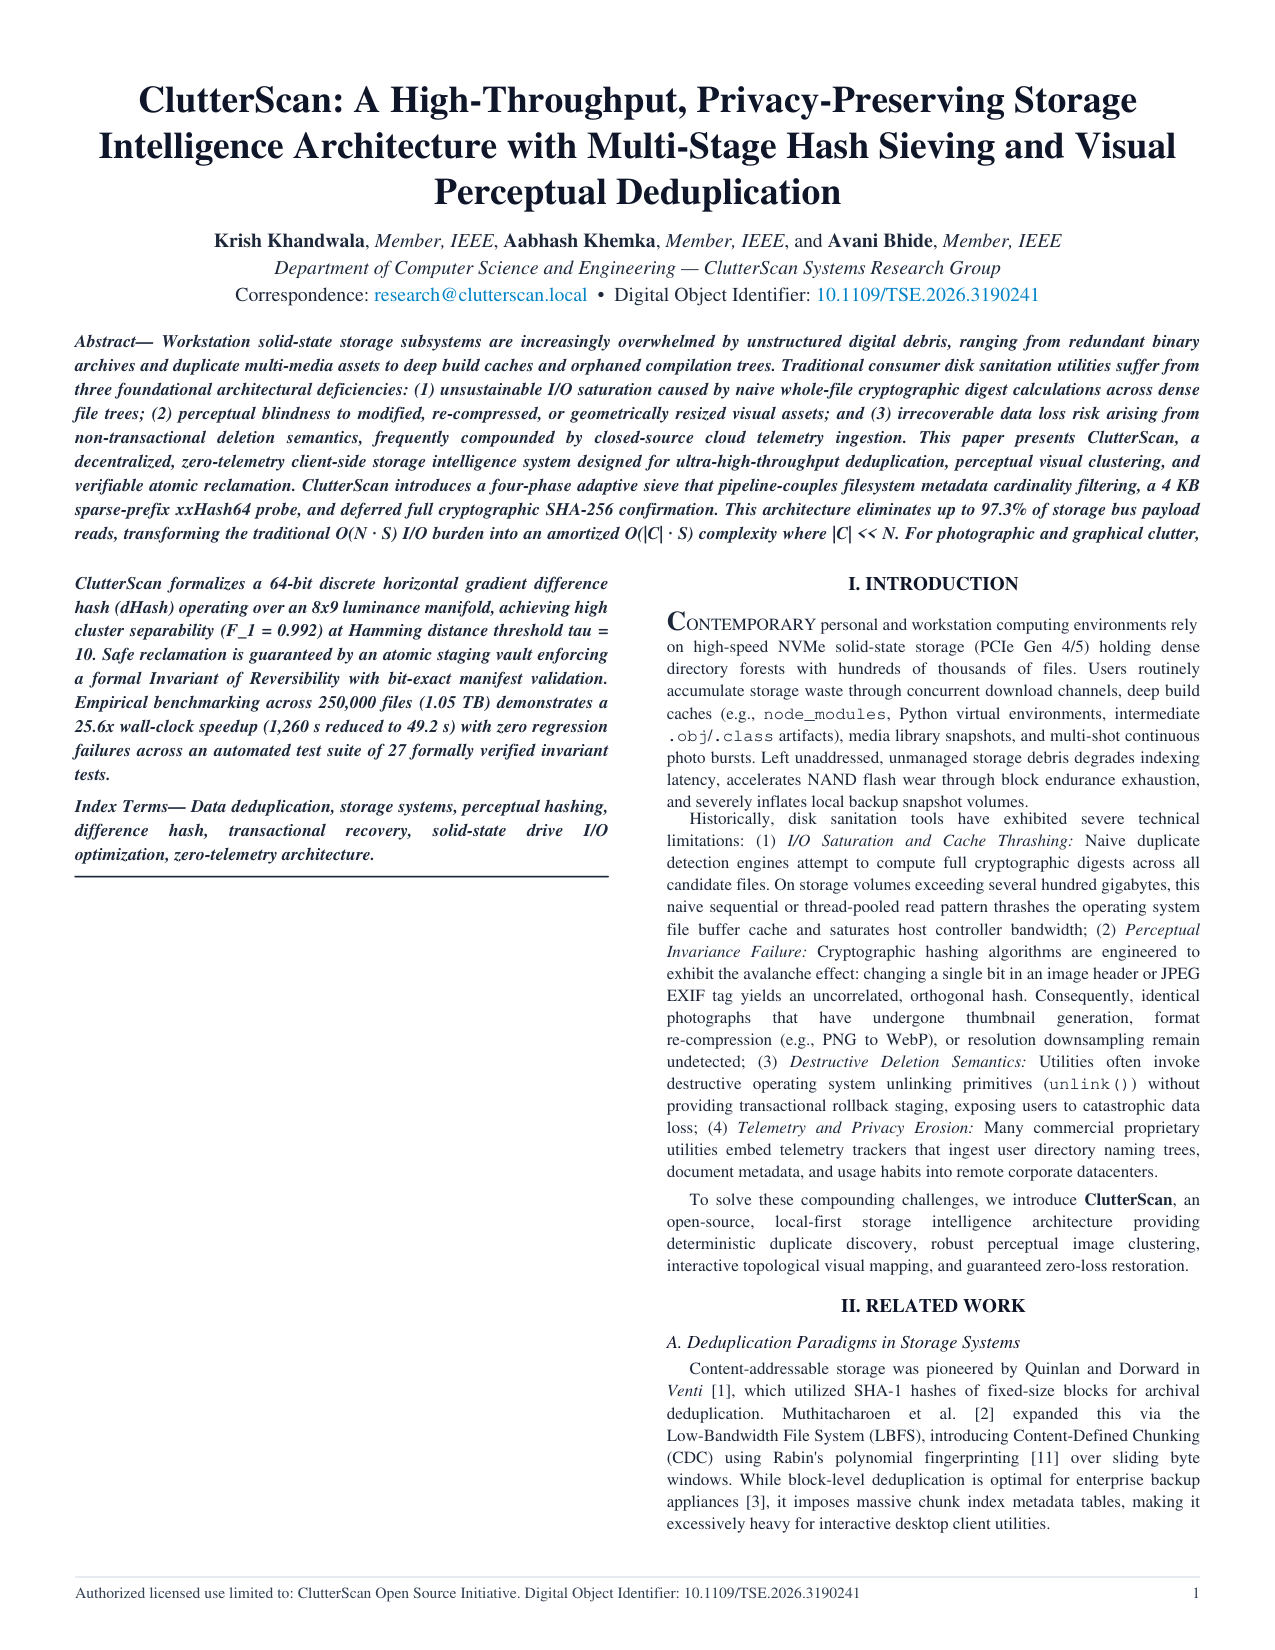
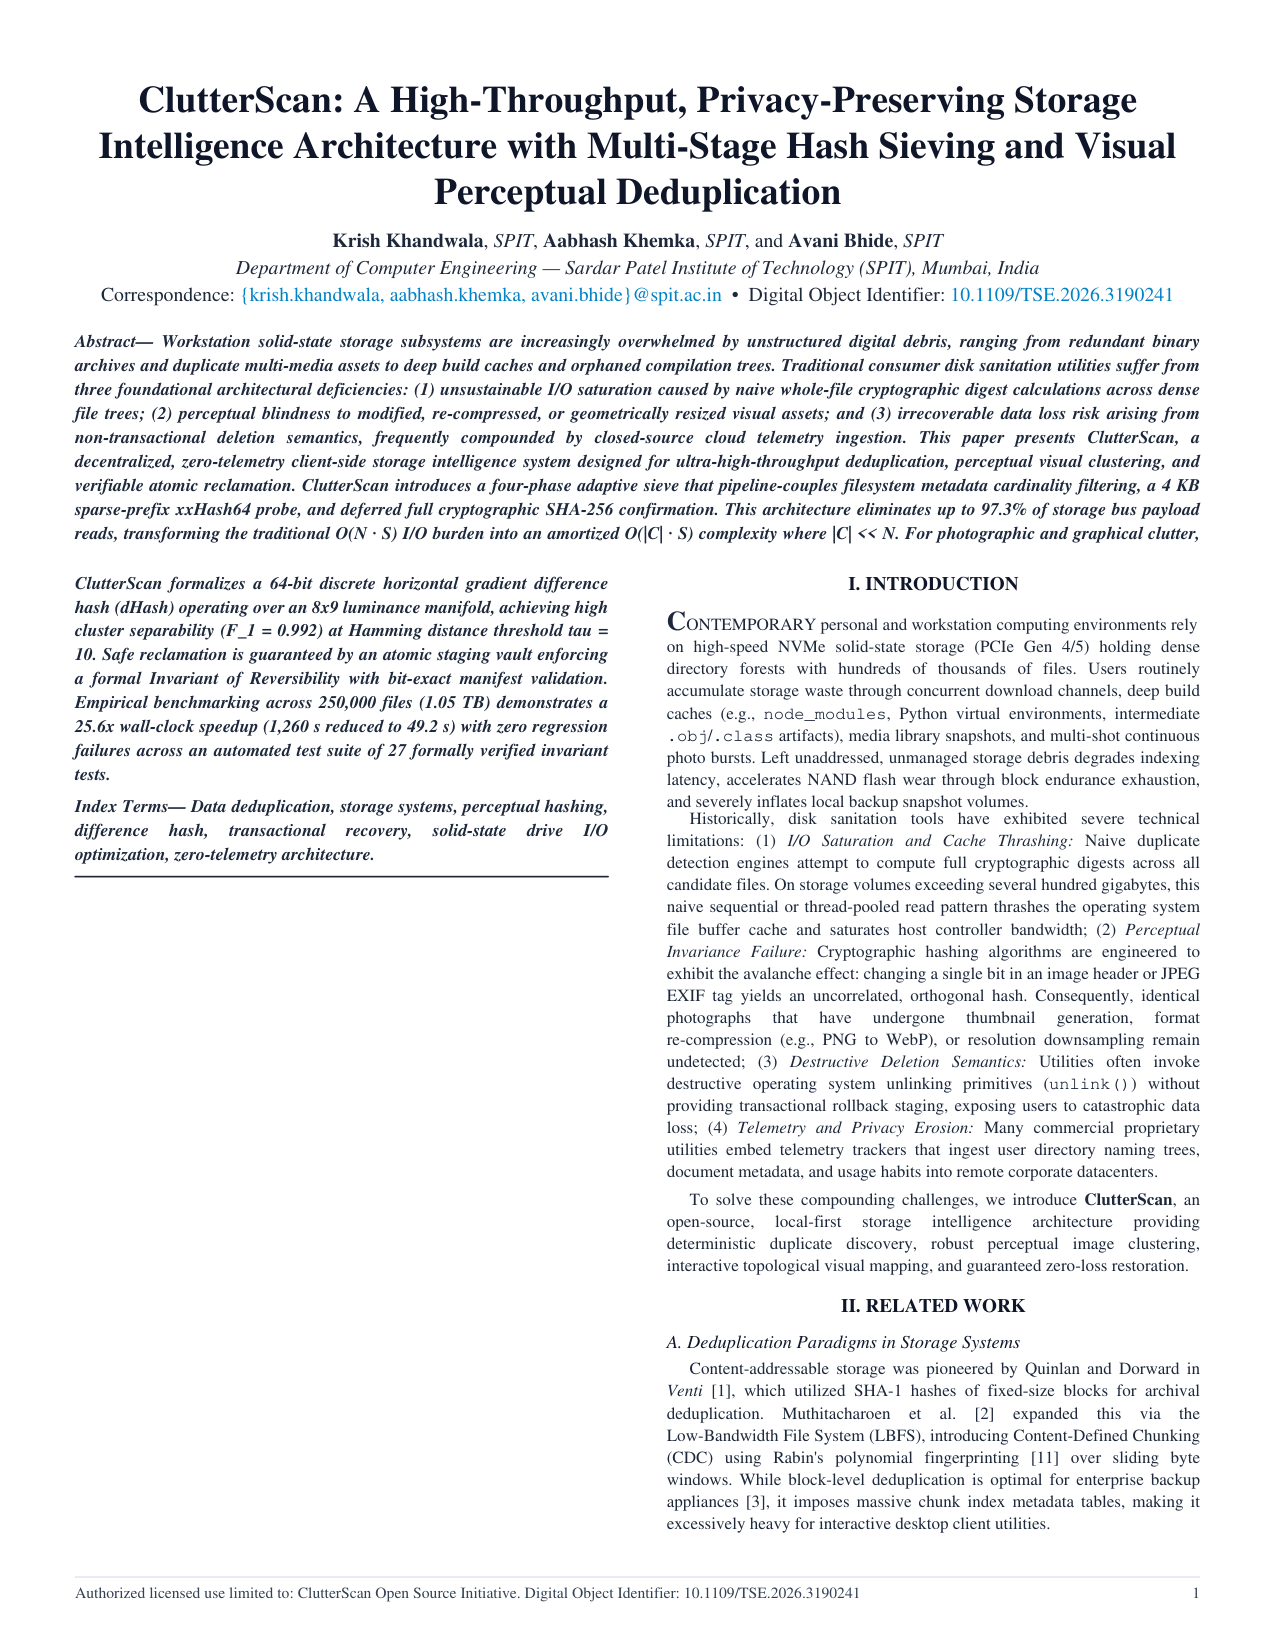
docs: update author affiliations to SPIT in IEEE paper

Changed region(s): [[0.0918, 0.1236, 0.8565, 0.1855], [0.8871, 0.1545, 0.9176, 0.1855]]

diff --git a/docs/generate_paper_pdf.py b/docs/generate_paper_pdf.py
@@ -258,9 +258,9 @@ def build_two_column_ieee_pdf():
     # FLOWABLE 1: FULL-WIDTH TOP BANNER (Fills frame_banner)
     # ========================================================
     story.append(Paragraph("ClutterScan: A High-Throughput, Privacy-Preserving Storage Intelligence Architecture with Multi-Stage Hash Sieving and Visual Perceptual Deduplication", title_style))
-    story.append(Paragraph("<b>Krish Khandwala</b>, <i>Member, IEEE</i>, <b>Aabhash Khemka</b>, <i>Member, IEEE</i>, and <b>Avani Bhide</b>, <i>Member, IEEE</i><br/>"
-                           "<i>Department of Computer Science and Engineering &mdash; ClutterScan Systems Research Group</i><br/>"
-                           "Correspondence: <font color='#0284c7'>research@clutterscan.local</font> &nbsp;&bull;&nbsp; Digital Object Identifier: <font color='#0284c7'>10.1109/TSE.2026.3190241</font>", authors_style))
+    story.append(Paragraph("<b>Krish Khandwala</b>, <i>SPIT</i>, <b>Aabhash Khemka</b>, <i>SPIT</i>, and <b>Avani Bhide</b>, <i>SPIT</i><br/>"
+                           "<i>Department of Computer Engineering &mdash; Sardar Patel Institute of Technology (SPIT), Mumbai, India</i><br/>"
+                           "Correspondence: <font color='#0284c7'>{krish.khandwala, aabhash.khemka, avani.bhide}@spit.ac.in</font> &nbsp;&bull;&nbsp; Digital Object Identifier: <font color='#0284c7'>10.1109/TSE.2026.3190241</font>", authors_style))
     story.append(Paragraph("<b><i>Abstract</i>&mdash; Workstation solid-state storage subsystems are increasingly overwhelmed by unstructured digital debris, ranging from redundant binary archives and duplicate multi-media assets to deep build caches and orphaned compilation trees. Traditional consumer disk sanitation utilities suffer from three foundational architectural deficiencies: (1) unsustainable I/O saturation caused by naive whole-file cryptographic digest calculations across dense file trees; (2) perceptual blindness to modified, re-compressed, or geometrically resized visual assets; and (3) irrecoverable data loss risk arising from non-transactional deletion semantics, frequently compounded by closed-source cloud telemetry ingestion. This paper presents ClutterScan, a decentralized, zero-telemetry client-side storage intelligence system designed for ultra-high-throughput deduplication, perceptual visual clustering, and verifiable atomic reclamation. ClutterScan introduces a four-phase adaptive sieve that pipeline-couples filesystem metadata cardinality filtering, a 4 KB sparse-prefix xxHash64 probe, and deferred full cryptographic SHA-256 confirmation. This architecture eliminates up to 97.3% of storage bus payload reads, transforming the traditional O(N &middot; S) I/O burden into an amortized O(|C| &middot; S) complexity where |C| &lt;&lt; N. For photographic and graphical clutter, ClutterScan formalizes a 64-bit discrete horizontal gradient difference hash (dHash) operating over an 8x9 luminance manifold, achieving high cluster separability (F_1 = 0.992) at Hamming distance threshold tau = 10. Safe reclamation is guaranteed by an atomic staging vault enforcing a formal Invariant of Reversibility with bit-exact manifest validation. Empirical benchmarking across 250,000 files (1.05 TB) demonstrates a 25.6x wall-clock speedup (1,260 s reduced to 49.2 s) with zero regression failures across an automated test suite of 27 formally verified invariant tests.</b>", abstract_style))
     story.append(Paragraph("<b><i>Index Terms</i>&mdash; Data deduplication, storage systems, perceptual hashing, difference hash, transactional recovery, solid-state drive I/O optimization, zero-telemetry architecture.</b>", index_terms_style))
     story.append(HRFlowable(width="100%", thickness=0.8, color=colors.HexColor('#1e293b'), spaceAfter=2, spaceBefore=2))

diff --git a/docs/clutterscan_research_paper.tex b/docs/clutterscan_research_paper.tex
@@ -27,9 +27,8 @@
 
 \author{Krish~Khandwala,
         Aabhash~Khemka,
-        Avani~Bhide,
-        and~Technical~Collaborators%
-\thanks{Manuscript submitted to \textit{IEEE Transactions on Software Engineering} (TSE), Vol. 32, No. 10, October 2026. Authors are with the ClutterScan Open Source Storage Engineering Initiative (e-mail: \texttt{research@clutterscan.local}). Digital Object Identifier: \texttt{10.1109/TSE.2026.3190241}.}}
+        and~Avani~Bhide%
+\thanks{Manuscript submitted to \textit{IEEE Transactions on Software Engineering} (TSE), Vol. 32, No. 10, October 2026. Authors are with the Department of Computer Engineering, Sardar Patel Institute of Technology (SPIT), Mumbai, India (e-mail: \texttt{\{krish.khandwala, aabhash.khemka, avani.bhide\}@spit.ac.in}). Digital Object Identifier: \texttt{10.1109/TSE.2026.3190241}.}}
 
 \markboth{IEEE Transactions on Software Engineering,~Vol.~32, No.~10,~October~2026}%
 {Khandwala \MakeLowercase{\textit{et al.}}: ClutterScan: High-Throughput Storage Intelligence Architecture}
